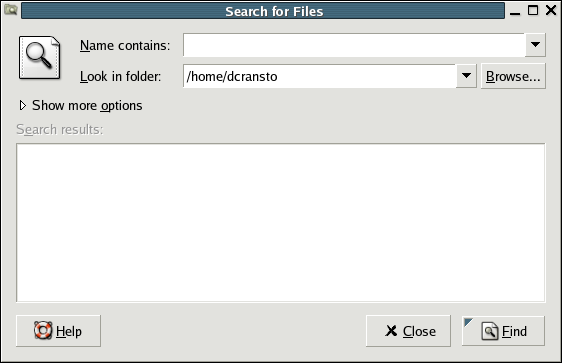
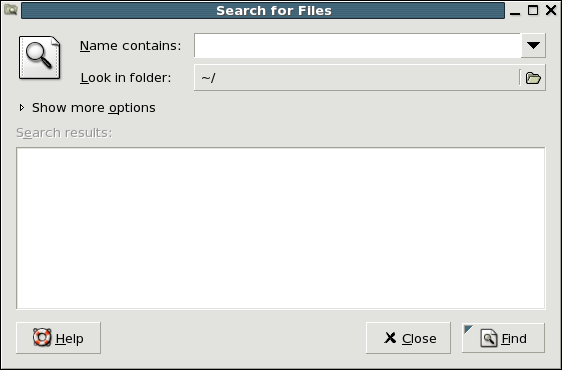
Convert the look-in-folder-entry widget from a gnome-file-entry to a new
2004-10-21  Dennis Cranston <dennis_cranston at yahoo com>

	* gsearchtool.c:  Convert the look-in-folder-entry widget from a
	gnome-file-entry to a new gtk+ 2.5 gtk-file-chooser-button.

	* gsearchtool-callbacks.[ch]: Remove look_in_folder_key_press_cb().
	Replace legacy gnome_file_entry_get_full_path() with
	gtk_file_chooser_get_current_folder().

	* help/C/gnome-search-tool.xml:  Update for new gtk+ 2.5 file
	chooser button widget.

	* help/C/figures/gnome-search-tool_window.png:  Update for new
	gtk+ 2.5 file chooser button widget.

diff --git a/gsearchtool.c b/gsearchtool.c
@@ -331,10 +331,8 @@ build_search_command (void)
 	}
 	file_is_named_locale = g_locale_from_utf8 (file_is_named_utf8, -1, NULL, NULL, NULL);
 	
-	look_in_folder_utf8 = gnome_file_entry_get_full_path (GNOME_FILE_ENTRY(interface.look_in_folder_entry), FALSE);
+	look_in_folder_utf8 = gtk_file_chooser_get_current_folder (GTK_FILE_CHOOSER (interface.look_in_folder_entry));
 	look_in_folder_locale = g_locale_from_utf8 (look_in_folder_utf8, -1, NULL, NULL, NULL);
-	gnome_entry_prepend_history (GNOME_ENTRY(gnome_file_entry_gnome_entry (GNOME_FILE_ENTRY(interface.look_in_folder_entry))), 
-				     TRUE, look_in_folder_utf8);
 	g_free (look_in_folder_utf8);
 	
 	if (!file_extension_is (look_in_folder_locale, G_DIR_SEPARATOR_S)) {
@@ -893,7 +891,7 @@ get_desktop_item_name (void)
 	g_string_append (gs, g_strdup_printf ("named=%s", file_is_named_locale));
 	g_free (file_is_named_locale);
 
-	look_in_folder_utf8 = gnome_file_entry_get_full_path (GNOME_FILE_ENTRY(interface.look_in_folder_entry), FALSE);
+	look_in_folder_utf8 = gtk_file_chooser_get_current_folder (GTK_FILE_CHOOSER (interface.look_in_folder_entry));
 	look_in_folder_locale = g_locale_from_utf8 (look_in_folder_utf8 != NULL ? look_in_folder_utf8 : "", 
 	                                            -1, NULL, NULL, NULL);
 	g_string_append (gs, g_strdup_printf ("&path=%s", look_in_folder_locale));
@@ -1017,8 +1015,8 @@ handle_popt_args (void)
 	}
 	if (PoptArgument.path != NULL) {
 		popt_args_found = TRUE;
-		gtk_entry_set_text (GTK_ENTRY(gnome_file_entry_gtk_entry (GNOME_FILE_ENTRY(interface.look_in_folder_entry))),
-				    g_locale_to_utf8 (PoptArgument.path, -1, NULL, NULL, NULL));
+		gtk_file_chooser_set_current_folder (GTK_FILE_CHOOSER (interface.look_in_folder_entry),
+		                               g_locale_to_utf8 (PoptArgument.path, -1, NULL, NULL, NULL));
 	}	
 	if (PoptArgument.contains != NULL) {
 		popt_args_found = TRUE;	
@@ -1898,7 +1896,6 @@ create_main_window (void)
 	GtkWidget	*vbox;
 	GtkWidget 	*entry;
 	GtkWidget	*label;
-	GtkWidget 	*folder_entry;
 	GtkWidget 	*button;
 	GtkWidget 	*window;
 
@@ -1950,8 +1947,8 @@ create_main_window (void)
 	if (GTK_IS_ACCESSIBLE (gtk_widget_get_accessible(interface.file_is_named_entry)))
 	{
 		interface.is_gail_loaded = TRUE;
-		add_atk_namedesc (interface.file_is_named_entry, NULL, _("Enter the file name you want to search"));
-		add_atk_namedesc (entry, _("Name Contains Entry"), _("Enter the file name you want to search"));
+		add_atk_namedesc (interface.file_is_named_entry, NULL, _("Enter the file name you want to search."));
+		add_atk_namedesc (entry, _("Name Contains Entry"), _("Enter the file name you want to search."));
 	}	
      
 	g_signal_connect (G_OBJECT (interface.file_is_named_entry), "activate",
@@ -1968,33 +1965,24 @@ create_main_window (void)
 	
 	gtk_table_attach(GTK_TABLE(interface.table), label, 0, 1, 1, 2, GTK_FILL, 0, 0, 0);
 	
-	interface.look_in_folder_entry = gnome_file_entry_new ("gsearchtool-folder-entry", _("Browse"));
-	gnome_file_entry_set_directory_entry (GNOME_FILE_ENTRY (interface.look_in_folder_entry), TRUE);
-	g_object_set (G_OBJECT (interface.look_in_folder_entry), "use-filechooser", TRUE, NULL);
-	
-	entry = gnome_file_entry_gtk_entry (GNOME_FILE_ENTRY(interface.look_in_folder_entry));
-	gtk_label_set_mnemonic_widget (GTK_LABEL(label), interface.look_in_folder_entry);
-	folder_entry = gnome_file_entry_gnome_entry (GNOME_FILE_ENTRY(interface.look_in_folder_entry));
+	interface.look_in_folder_entry = gtk_file_chooser_button_new (_("Browse"));
+	gtk_file_chooser_set_action (GTK_FILE_CHOOSER (interface.look_in_folder_entry), GTK_FILE_CHOOSER_ACTION_SELECT_FOLDER);
+	gtk_label_set_mnemonic_widget (GTK_LABEL(label), GTK_WIDGET (interface.look_in_folder_entry));		
 	gtk_table_attach (GTK_TABLE(interface.table), interface.look_in_folder_entry, 1, 2, 1, 2, GTK_EXPAND | GTK_FILL | GTK_SHRINK, 0, 0, 0);
 	
 	if (interface.is_gail_loaded)
 	{ 
-		add_atk_namedesc (GTK_WIDGET(folder_entry), NULL, _("Enter the folder name where you want to start the search"));
-		add_atk_namedesc (GTK_WIDGET(entry), _("Look in Folder Entry"), _("Enter the folder name where you want to start the search"));
+		add_atk_namedesc (GTK_WIDGET(interface.look_in_folder_entry), NULL, _("Select the folder where you want to start the search."));
 	}
 	
-	g_signal_connect (G_OBJECT (entry), "key_press_event",
-			  G_CALLBACK (look_in_folder_key_press_cb),
-			  NULL);
-	
-	g_signal_connect (G_OBJECT (interface.look_in_folder_entry), "changed",
+	g_signal_connect (G_OBJECT (interface.look_in_folder_entry), "current-folder-changed",
 			  G_CALLBACK (constraint_entry_changed_cb),
 			  NULL);
 			  
 	locale_string = g_get_current_dir ();
 	utf8_string = g_filename_to_utf8 (locale_string, -1, NULL, NULL, NULL);
 	
-	gtk_entry_set_text (GTK_ENTRY(entry), utf8_string);
+	gtk_file_chooser_set_current_folder (GTK_FILE_CHOOSER (interface.look_in_folder_entry), utf8_string);
 	g_free (locale_string);
 	g_free (utf8_string);
 	
@@ -2126,7 +2114,7 @@ set_clone_command (gint *argcp, gchar ***argvp, gpointer client_data, gboolean e
 	g_free (tmp);
 	g_free (file_is_named_locale);
 
-	look_in_folder_utf8 = gnome_file_entry_get_full_path (GNOME_FILE_ENTRY(interface.look_in_folder_entry), FALSE);
+	look_in_folder_utf8 = gtk_file_chooser_get_current_folder (GTK_FILE_CHOOSER (interface.look_in_folder_entry));
 	look_in_folder_locale = g_locale_from_utf8 (look_in_folder_utf8 != NULL ? look_in_folder_utf8 : "", 
 	                                            -1, NULL, NULL, NULL);
 	g_free (look_in_folder_utf8);

diff --git a/gsearchtool-callbacks.c b/gsearchtool-callbacks.c
@@ -272,7 +272,7 @@ constraint_entry_changed_cb (GtkWidget 	*widget,
 	}
 		
 	look_in_folder_string = 
-		gnome_file_entry_get_full_path(GNOME_FILE_ENTRY(interface.look_in_folder_entry), FALSE);
+		gtk_file_chooser_get_current_folder (GTK_FILE_CHOOSER (interface.look_in_folder_entry));
 
 	if (look_in_folder_string == NULL) {
 		gtk_widget_set_sensitive (interface.find_button, FALSE);
@@ -1444,23 +1444,6 @@ key_press_cb (GtkWidget    	*widget,
 				gnome_popup_menu_do_popup (GTK_WIDGET (popup), NULL, NULL,
 							   (GdkEventButton *)event, data, NULL);
 			}
-		}
-	}
-	return FALSE;
-}
-
-gboolean
-look_in_folder_key_press_cb (GtkWidget    	*widget, 
-		     	     GdkEventKey	*event, 
-		     	     gpointer 		data)
-{
-	g_return_val_if_fail (GTK_IS_WIDGET(widget), FALSE);
-
-	if (event->keyval == GDK_Return)
-	{
-		if ((GTK_WIDGET_VISIBLE (interface.find_button)) && 
-		    (GTK_WIDGET_SENSITIVE (interface.find_button))) {
-			click_find_cb (interface.find_button, NULL);
 		}
 	}
 	return FALSE;

diff --git a/gsearchtool-callbacks.h b/gsearchtool-callbacks.h
@@ -126,10 +126,6 @@ gboolean
 key_press_cb 			(GtkWidget 	*widget, 
 				 GdkEventKey 	*event,
 				 gpointer 	data);	
-gboolean    
-look_in_folder_key_press_cb 	(GtkWidget 	*widget, 
-				 GdkEventKey    *event,
-				 gpointer 	data);
 				 
 gboolean
 file_button_release_event_cb	(GtkWidget 	*widget,
